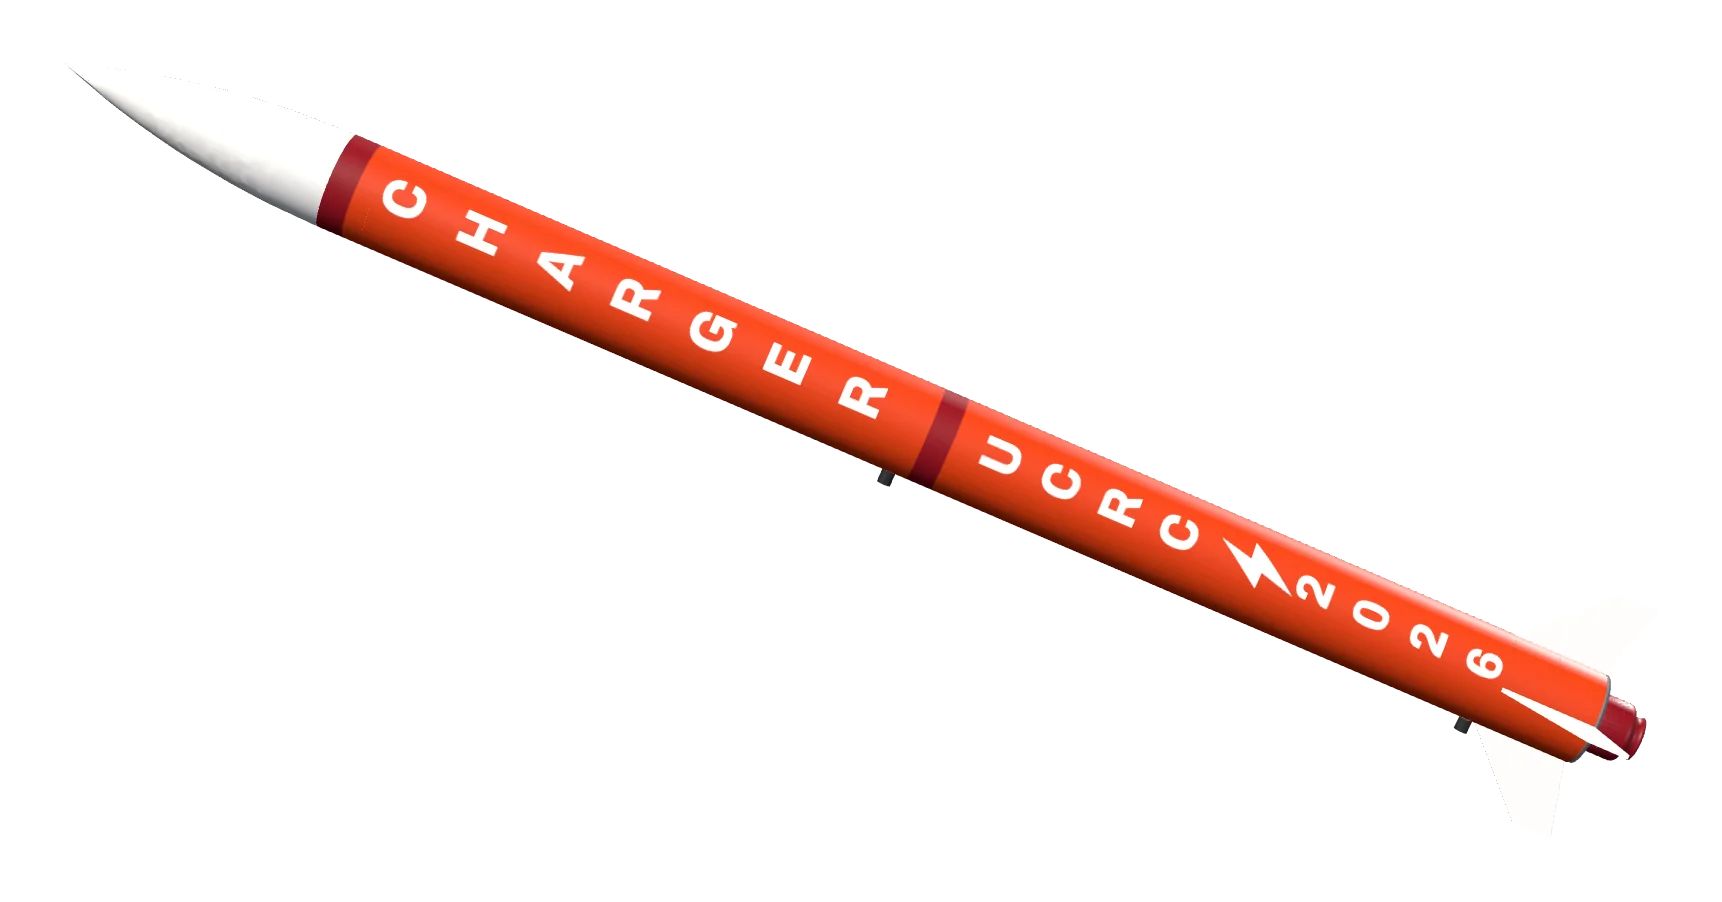
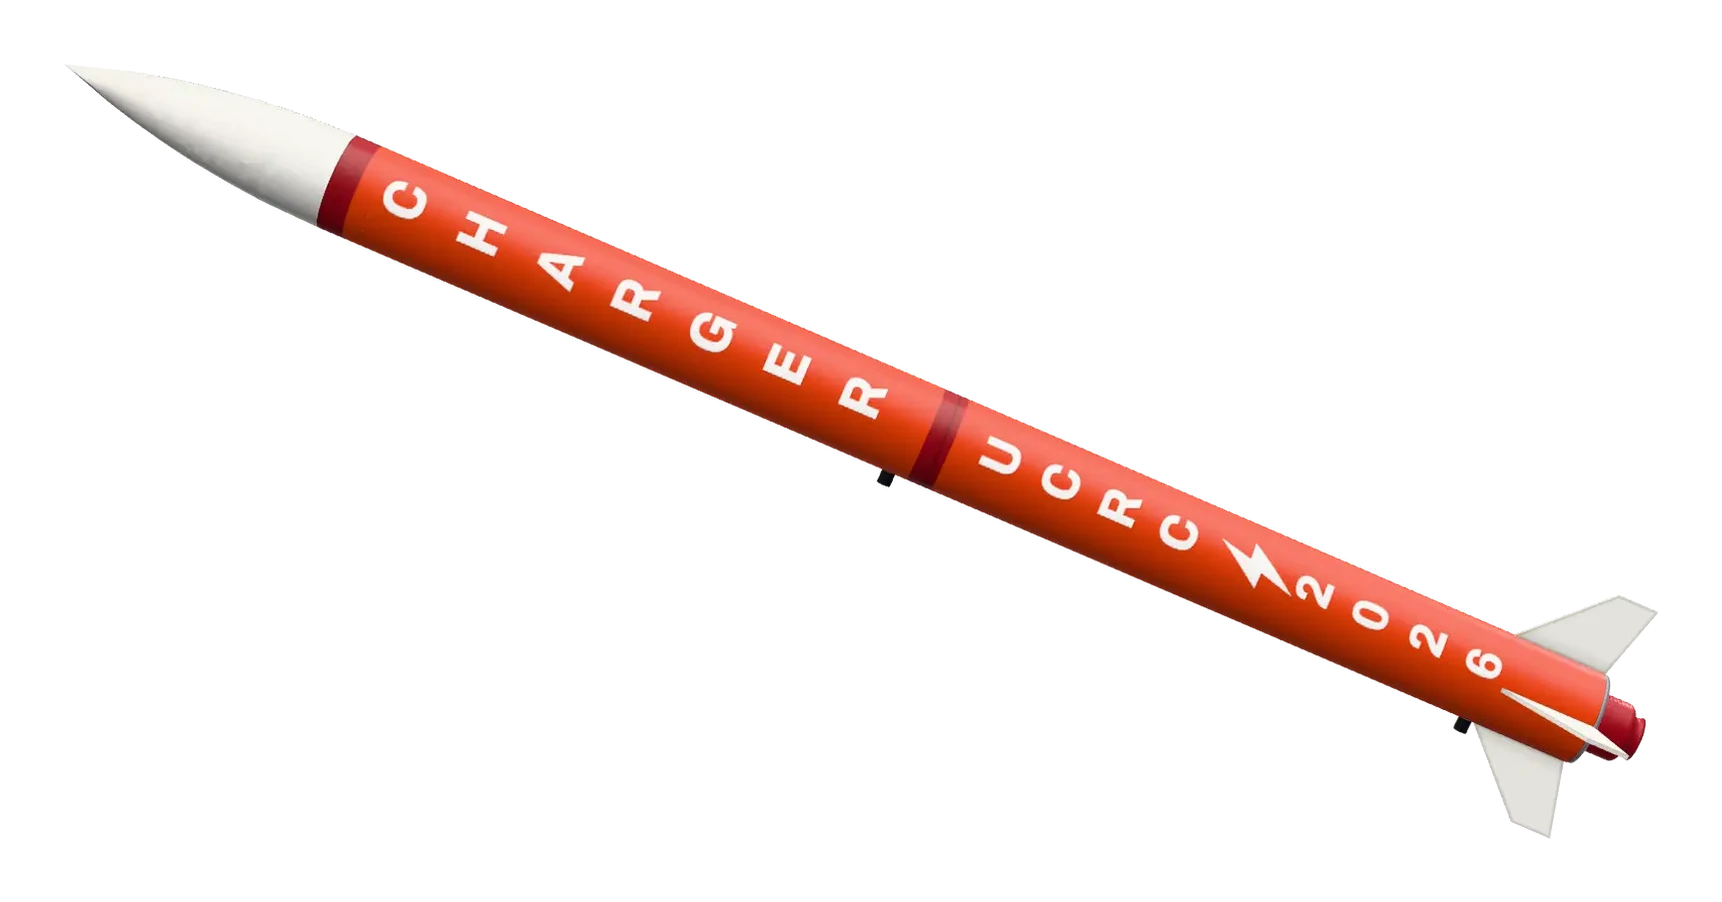
Experiment: the last flat images become renders in the realistic look
Robo-Catcher page: the three small CAD screenshots (chamber, assembled feeder, return flywheel) are now
renders of the same parts from the 3D viewer's model, on a transparent ground with a soft floor shadow.
The CHARGER spec sheet image and the rocket in the Websites page's browser mock are the current satin
rocket. Captions and descriptions are unchanged.

Claude-Session: https://claude.ai/code/session_01CEbbDhhfzdpcoGhjMFhyie

Changed region(s): [[0.0616, 0.0931, 0.9541, 0.9313]]

diff --git a/next/projects/robo-catcher.html b/next/projects/robo-catcher.html
@@ -91,8 +91,8 @@
     <div class="rule"><span class="label">How it works</span><span class="label hide-s">Mechanism + firmware / 2025</span></div>
     <div class="csec__head"><h2 id="how-title" class="display csec__title">How it works</h2></div>
     <div class="how">
-<div class="feat feat--flip" data-reveal><div class="feat__text"><div class="feat__head"><span class="label">01</span><h3 class="feat__title">The feeder</h3></div><div class="feat__body"><p>The feeder is a rotating dual chamber: catch a ball, rotate 180 degrees, hand it to the return flywheel.</p></div></div><div class="feat__media" style="--n: 2"><figure><img src="../../assets/photos/robo-catcher-photography/indexer-cross-section.jpg" alt="Indexer cross-section" loading="lazy" decoding="async"><figcaption class="label">Chamber geometry</figcaption></figure><figure><img src="../../assets/photos/robo-catcher-photography/full-feeder.jpg" alt="The assembled feeder" loading="lazy" decoding="async"><figcaption class="label">The assembled feeder</figcaption></figure></div></div>
-<div class="feat" data-reveal><div class="feat__text"><div class="feat__head"><span class="label">02</span><h3 class="feat__title">Electronics and firmware</h3></div><div class="feat__body"><p>One ESP32 runs everything. A wireless remote starts and stops it.</p></div></div><div class="feat__media" style="--n: 2"><figure><img src="../../assets/photos/robo-catcher-photography/working-on-electronics.jpg" alt="The team running the machine on the field" loading="lazy" decoding="async"><figcaption class="label">On the field</figcaption></figure><figure><img src="../../assets/photos/robo-catcher-photography/flywheel-full.jpg" alt="Return flywheel assembly" loading="lazy" decoding="async"><figcaption class="label">Return flywheel, 120 W DC motor</figcaption></figure></div></div>
+<div class="feat feat--flip" data-reveal><div class="feat__text"><div class="feat__head"><span class="label">01</span><h3 class="feat__title">The feeder</h3></div><div class="feat__body"><p>The feeder is a rotating dual chamber: catch a ball, rotate 180 degrees, hand it to the return flywheel.</p></div></div><div class="feat__media" style="--n: 2"><figure><img src="../../assets/renders/robo-catcher/chamber.webp" alt="Indexer cross-section" loading="lazy" decoding="async"><figcaption class="label">Chamber geometry</figcaption></figure><figure><img src="../../assets/renders/robo-catcher/feeder.webp" alt="The assembled feeder" loading="lazy" decoding="async"><figcaption class="label">The assembled feeder</figcaption></figure></div></div>
+<div class="feat" data-reveal><div class="feat__text"><div class="feat__head"><span class="label">02</span><h3 class="feat__title">Electronics and firmware</h3></div><div class="feat__body"><p>One ESP32 runs everything. A wireless remote starts and stops it.</p></div></div><div class="feat__media" style="--n: 2"><figure><img src="../../assets/photos/robo-catcher-photography/working-on-electronics.jpg" alt="The team running the machine on the field" loading="lazy" decoding="async"><figcaption class="label">On the field</figcaption></figure><figure><img src="../../assets/renders/robo-catcher/flywheel.webp" alt="Return flywheel assembly" loading="lazy" decoding="async"><figcaption class="label">Return flywheel, 120 W DC motor</figcaption></figure></div></div>
 <div class="feat" data-reveal><div class="feat__text"><div class="feat__head"><span class="label">03</span><h3 class="feat__title">The result</h3></div><div class="feat__body"><ul class="feat__list"><li>100% feed indexing on competition day: every ball delivered, no misses</li><li>Under $700 total build cost against a $700 cap</li><li>55 lb, one person portable, assembles with no tools</li><li>1.5 hours continuous runtime on a single 12 V 20 Ah SLA battery</li></ul></div></div><div class="feat__media" style="--n: 1"><figure><img src="../../assets/photos/shop-and-machine-photography/machine-field.jpg" alt="The finished machine on the field" loading="lazy" decoding="async"><figcaption class="label">The finished machine</figcaption></figure></div></div>
 <div class="statement" data-reveal><span class="label">04 / What I learned</span><p>The MATLAB torque study felt slow while teammates were already printing parts. Then the feeder ran a full competition day without a missed index.</p></div>
     </div>

diff --git a/projects/robo-catcher.html b/projects/robo-catcher.html
@@ -103,8 +103,8 @@
     <div class="rule"><span class="label">How it works</span><span class="label hide-s">Mechanism + firmware / 2025</span></div>
     <div class="csec__head"><h2 id="how-title" class="display csec__title">How it works</h2></div>
     <div class="how">
-<div class="feat feat--flip" data-reveal><div class="feat__text"><div class="feat__head"><span class="label">01</span><h3 class="feat__title">The feeder</h3></div><div class="feat__body"><p>The feeder is a rotating dual chamber: catch a ball, rotate 180 degrees, hand it to the return flywheel.</p></div></div><div class="feat__media" style="--n: 2"><figure><img src="../assets/photos/robo-catcher-photography/indexer-cross-section.jpg" alt="Indexer cross-section" loading="lazy" decoding="async"><figcaption class="label">Chamber geometry</figcaption></figure><figure><img src="../assets/photos/robo-catcher-photography/full-feeder.jpg" alt="The assembled feeder" loading="lazy" decoding="async"><figcaption class="label">The assembled feeder</figcaption></figure></div></div>
-<div class="feat" data-reveal><div class="feat__text"><div class="feat__head"><span class="label">02</span><h3 class="feat__title">Electronics and firmware</h3></div><div class="feat__body"><p>One ESP32 runs everything. A wireless remote starts and stops it.</p></div></div><div class="feat__media" style="--n: 2"><figure><img src="../assets/photos/robo-catcher-photography/working-on-electronics.jpg" alt="The team running the machine on the field" loading="lazy" decoding="async"><figcaption class="label">On the field</figcaption></figure><figure><img src="../assets/photos/robo-catcher-photography/flywheel-full.jpg" alt="Return flywheel assembly" loading="lazy" decoding="async"><figcaption class="label">Return flywheel, 120 W DC motor</figcaption></figure></div></div>
+<div class="feat feat--flip" data-reveal><div class="feat__text"><div class="feat__head"><span class="label">01</span><h3 class="feat__title">The feeder</h3></div><div class="feat__body"><p>The feeder is a rotating dual chamber: catch a ball, rotate 180 degrees, hand it to the return flywheel.</p></div></div><div class="feat__media" style="--n: 2"><figure><img src="../assets/renders/robo-catcher/chamber.webp" alt="Indexer cross-section" loading="lazy" decoding="async"><figcaption class="label">Chamber geometry</figcaption></figure><figure><img src="../assets/renders/robo-catcher/feeder.webp" alt="The assembled feeder" loading="lazy" decoding="async"><figcaption class="label">The assembled feeder</figcaption></figure></div></div>
+<div class="feat" data-reveal><div class="feat__text"><div class="feat__head"><span class="label">02</span><h3 class="feat__title">Electronics and firmware</h3></div><div class="feat__body"><p>One ESP32 runs everything. A wireless remote starts and stops it.</p></div></div><div class="feat__media" style="--n: 2"><figure><img src="../assets/photos/robo-catcher-photography/working-on-electronics.jpg" alt="The team running the machine on the field" loading="lazy" decoding="async"><figcaption class="label">On the field</figcaption></figure><figure><img src="../assets/renders/robo-catcher/flywheel.webp" alt="Return flywheel assembly" loading="lazy" decoding="async"><figcaption class="label">Return flywheel, 120 W DC motor</figcaption></figure></div></div>
 <div class="feat" data-reveal><div class="feat__text"><div class="feat__head"><span class="label">03</span><h3 class="feat__title">The result</h3></div><div class="feat__body"><ul class="feat__list"><li>100% feed indexing on competition day: every ball delivered, no misses</li><li>Under $700 total build cost against a $700 cap</li><li>55 lb, one person portable, assembles with no tools</li><li>1.5 hours continuous runtime on a single 12 V 20 Ah SLA battery</li></ul></div></div><div class="feat__media" style="--n: 1"><figure><img src="../assets/photos/shop-and-machine-photography/machine-field.jpg" alt="The finished machine on the field" loading="lazy" decoding="async"><figcaption class="label">The finished machine</figcaption></figure></div></div>
 <div class="statement" data-reveal><span class="label">04 / What I learned</span><p>The MATLAB torque study felt slow while teammates were already printing parts. Then the feeder ran a full competition day without a missed index.</p></div>
     </div>

diff --git a/next/websites.html b/next/websites.html
@@ -80,7 +80,7 @@
         <div class="browser__bar"><span class="browser__dots" aria-hidden="true"><i></i><i></i><i></i></span><span class="browser__url">merttureli.com</span><span aria-hidden="true">&#8599;</span></div>
         <div class="browser__screen">
           <strong class="browser__name">Mert<br>Tureli</strong>
-          <img class="browser__rocket" src="../assets/motion/charger-painted-wide-poster.webp" width="1280" height="720" alt="" decoding="async" fetchpriority="high">
+          <img class="browser__rocket" src="assets/img/charger-browser.webp" width="1280" height="720" alt="" decoding="async" fetchpriority="high">
         </div>
       </div>
       <div class="photo-tile" aria-hidden="true"><img src="../assets/photos/beyond/gallery/lake-framed-thumb.webp" width="640" height="427" alt="" decoding="async"></div>

diff --git a/websites.html b/websites.html
@@ -93,7 +93,7 @@
         <div class="browser__bar"><span class="browser__dots" aria-hidden="true"><i></i><i></i><i></i></span><span class="browser__url">merttureli.com</span><span aria-hidden="true">&#8599;</span></div>
         <div class="browser__screen">
           <strong class="browser__name">Mert<br>Tureli</strong>
-          <img class="browser__rocket" src="assets/motion/charger-painted-wide-poster.webp" width="1280" height="720" alt="" decoding="async" fetchpriority="high">
+          <img class="browser__rocket" src="next/assets/img/charger-browser.webp" width="1280" height="720" alt="" decoding="async" fetchpriority="high">
         </div>
       </div>
       <div class="photo-tile" aria-hidden="true"><img src="assets/photos/beyond/gallery/lake-framed-thumb.webp" width="640" height="427" alt="" decoding="async"></div>
